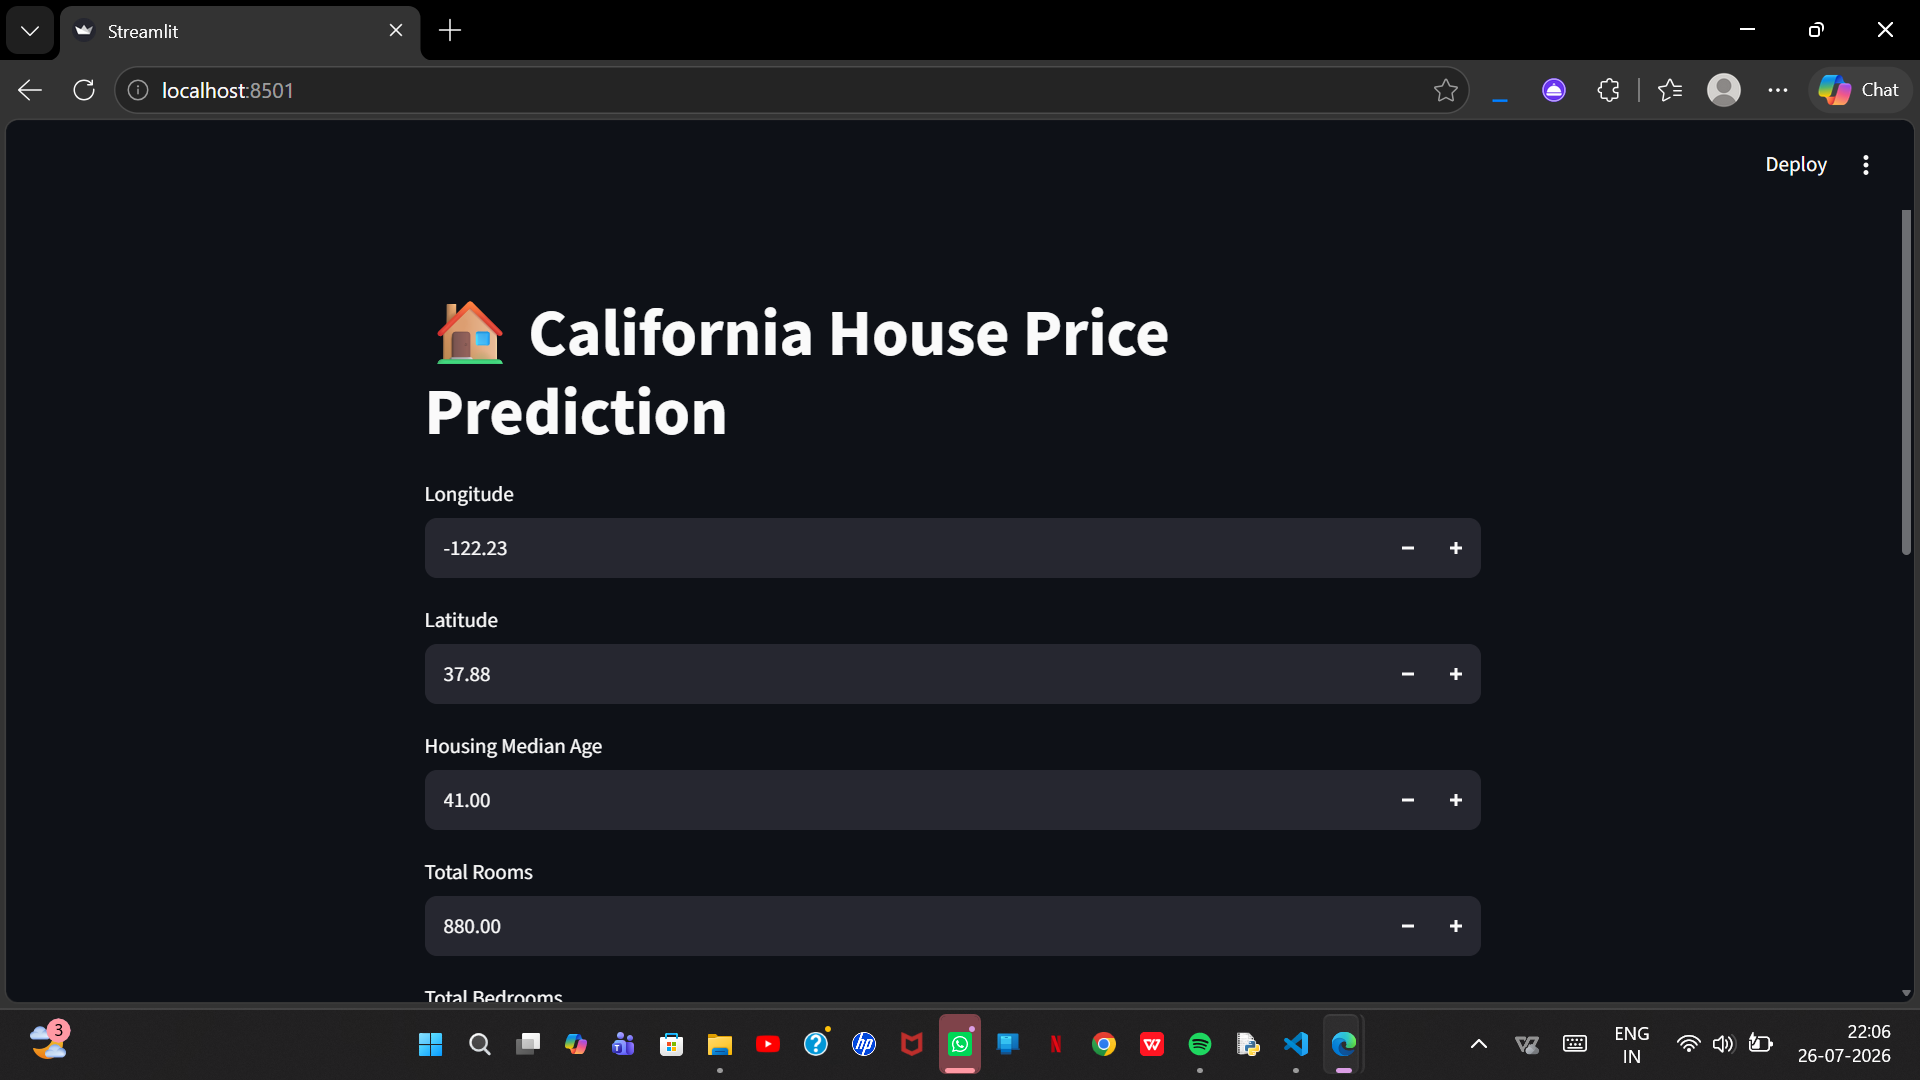
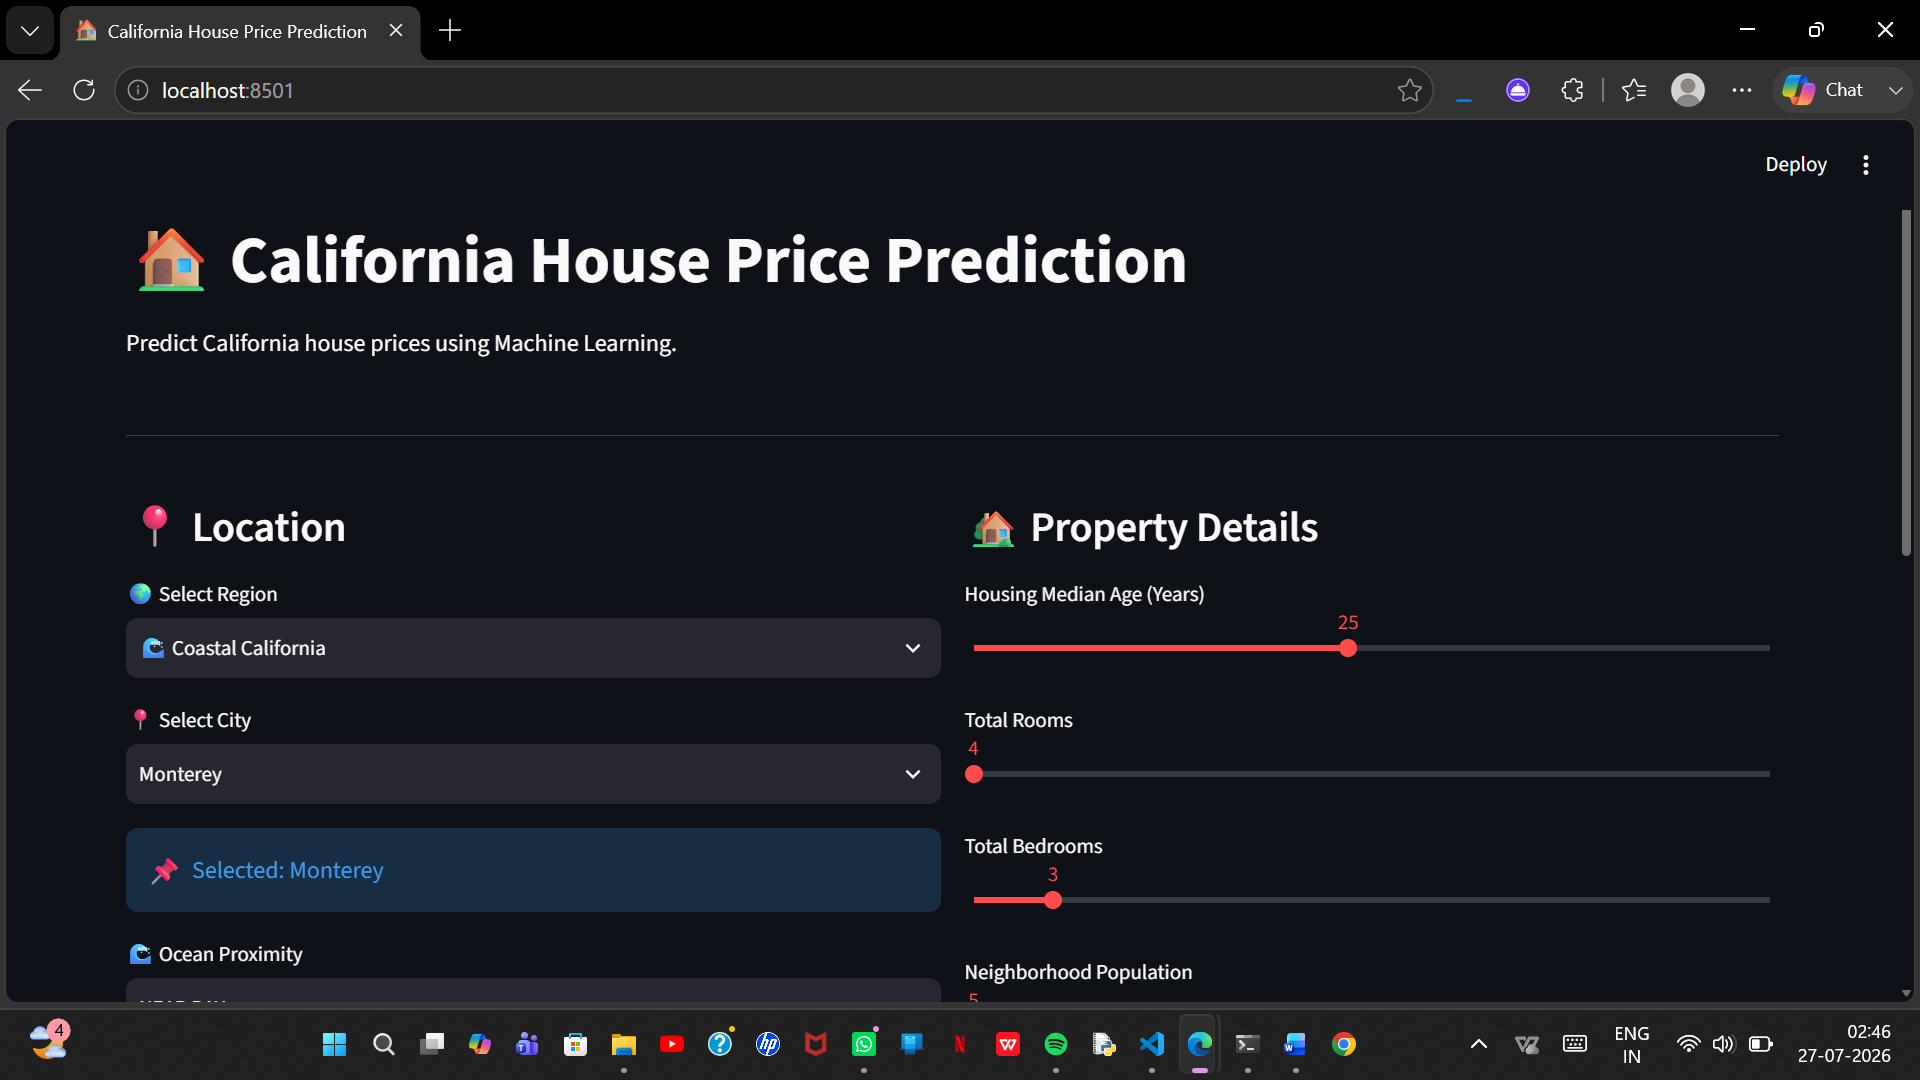
Improved Streamlit UI with location selection

diff --git a/app.py b/app.py
@@ -2,35 +2,180 @@ import streamlit as st
 import pandas as pd
 import joblib
 
-model = model = joblib.load("models/house_price_model.pkl")
-st.title("🏠 California House Price Prediction")
-
-longitude = st.number_input("Longitude", value=-122.23)
-latitude = st.number_input("Latitude", value=37.88)
-housing_median_age = st.number_input("Housing Median Age", value=41.0)
-total_rooms = st.number_input("Total Rooms", value=880.0)
-total_bedrooms = st.number_input("Total Bedrooms", value=129.0)
-population = st.number_input("Population", value=322.0)
-households = st.number_input("Households", value=126.0)
-median_income = st.number_input("Median Income", value=8.3252)
-
-ocean_proximity = st.selectbox(
-    "Ocean Proximity",
-    ["<1H OCEAN", "INLAND", "ISLAND", "NEAR BAY", "NEAR OCEAN"]
+# -----------------------
+# Page Configuration
+# -----------------------
+st.set_page_config(
+    page_title="California House Price Prediction",
+    page_icon="🏠",
+    layout="wide"
 )
 
-input_data = pd.DataFrame({
-    "longitude": [longitude],
-    "latitude": [latitude],
-    "housing_median_age": [housing_median_age],
-    "total_rooms": [total_rooms],
-    "total_bedrooms": [total_bedrooms],
-    "population": [population],
-    "households": [households],
-    "median_income": [median_income],
-    "ocean_proximity": [ocean_proximity]
-})
+# -----------------------
+# Load Model
+# -----------------------
+model = joblib.load("models/house_price_model.pkl")
 
-if st.button("Predict Price"):
-    prediction = model.predict(input_data)
-    st.success(f"Predicted House Price: ${prediction[0]:,.2f}")
+# -----------------------
+# Title
+# -----------------------
+st.title("🏠 California House Price Prediction")
+st.write("Predict California house prices using Machine Learning.")
+
+st.divider()
+
+# -----------------------
+# Layout
+# -----------------------
+col1, col2 = st.columns(2)
+
+# ==========================
+# LEFT COLUMN
+# ==========================
+with col1:
+
+    st.subheader("📍 Location")
+
+    locations = {
+
+        "🌉 Bay Area": {
+            "San Francisco": (-122.4194, 37.7749),
+            "San Jose": (-121.8863, 37.3382),
+            "Oakland": (-122.2712, 37.8044),
+            "Berkeley": (-122.2730, 37.8715),
+            "Fremont": (-121.9886, 37.5483),
+            "Palo Alto": (-122.1430, 37.4419),
+            "Mountain View": (-122.0839, 37.3861),
+            "Sunnyvale": (-122.0363, 37.3688),
+            "Cupertino": (-122.0322, 37.3229)
+        },
+
+        "🌴 Southern California": {
+            "Los Angeles": (-118.2437, 34.0522),
+            "San Diego": (-117.1611, 32.7157),
+            "Anaheim": (-117.9143, 33.8366),
+            "Long Beach": (-118.1937, 33.7701),
+            "Irvine": (-117.8265, 33.6846),
+            "Santa Monica": (-118.4912, 34.0195),
+            "Malibu": (-118.7798, 34.0259)
+        },
+
+        "🌲 Central California": {
+            "Sacramento": (-121.4944, 38.5816),
+            "Fresno": (-119.7871, 36.7378),
+            "Bakersfield": (-119.0187, 35.3733),
+            "Modesto": (-120.9969, 37.6391),
+            "Stockton": (-121.2908, 37.9577)
+        },
+
+        "🌊 Coastal California": {
+            "Santa Barbara": (-119.6982, 34.4208),
+            "Monterey": (-121.8947, 36.6002),
+            "Santa Cruz": (-122.0308, 36.9741)
+        }
+    }
+
+    region = st.selectbox(
+        "🌍 Select Region",
+        list(locations.keys())
+    )
+
+    city = st.selectbox(
+        "📍 Select City",
+        list(locations[region].keys())
+    )
+
+    longitude, latitude = locations[region][city]
+
+    st.info(f"📌 Selected: {city}")
+
+    ocean_proximity = st.selectbox(
+        "🌊 Ocean Proximity",
+        [
+            "<1H OCEAN",
+            "INLAND",
+            "ISLAND",
+            "NEAR BAY",
+            "NEAR OCEAN"
+        ]
+    )
+
+# ==========================
+# RIGHT COLUMN
+# ==========================
+with col2:
+
+    st.subheader("🏡 Property Details")
+
+    housing_median_age = st.slider(
+        "Housing Median Age (Years)",
+        1,
+        52,
+        25
+    )
+
+    total_rooms = st.slider(
+        "Total Rooms",
+        10,
+        50,
+        4
+    )
+
+    total_bedrooms = st.slider(
+        "Total Bedrooms",
+        0,
+        30,
+        3
+    )
+
+    population = st.slider(
+        "Neighborhood Population",
+        10,
+        100,
+        5
+    )
+
+    households = st.slider(
+        "Number of Households",
+        1,
+        100,
+        5
+    )
+
+    median_income = st.slider(
+        "Median Household Income (× $10,000/year)",
+        0.5,
+        15.0,
+        4.0,
+        0.1
+    )
+
+st.divider()
+
+# ==========================
+# Prediction
+# ==========================
+if st.button("🔮 Predict House Price", use_container_width=True):
+
+    input_df = pd.DataFrame({
+
+        "longitude": [longitude],
+        "latitude": [latitude],
+        "housing_median_age": [housing_median_age],
+        "total_rooms": [total_rooms],
+        "total_bedrooms": [total_bedrooms],
+        "population": [population],
+        "households": [households],
+        "median_income": [median_income],
+        "ocean_proximity": [ocean_proximity]
+
+    })
+
+    prediction = model.predict(input_df)
+
+    st.success("✅ Prediction Completed Successfully!")
+
+    st.metric(
+        "🏠 Estimated House Price",
+        f"${prediction[0]:,.0f}"
+    )
